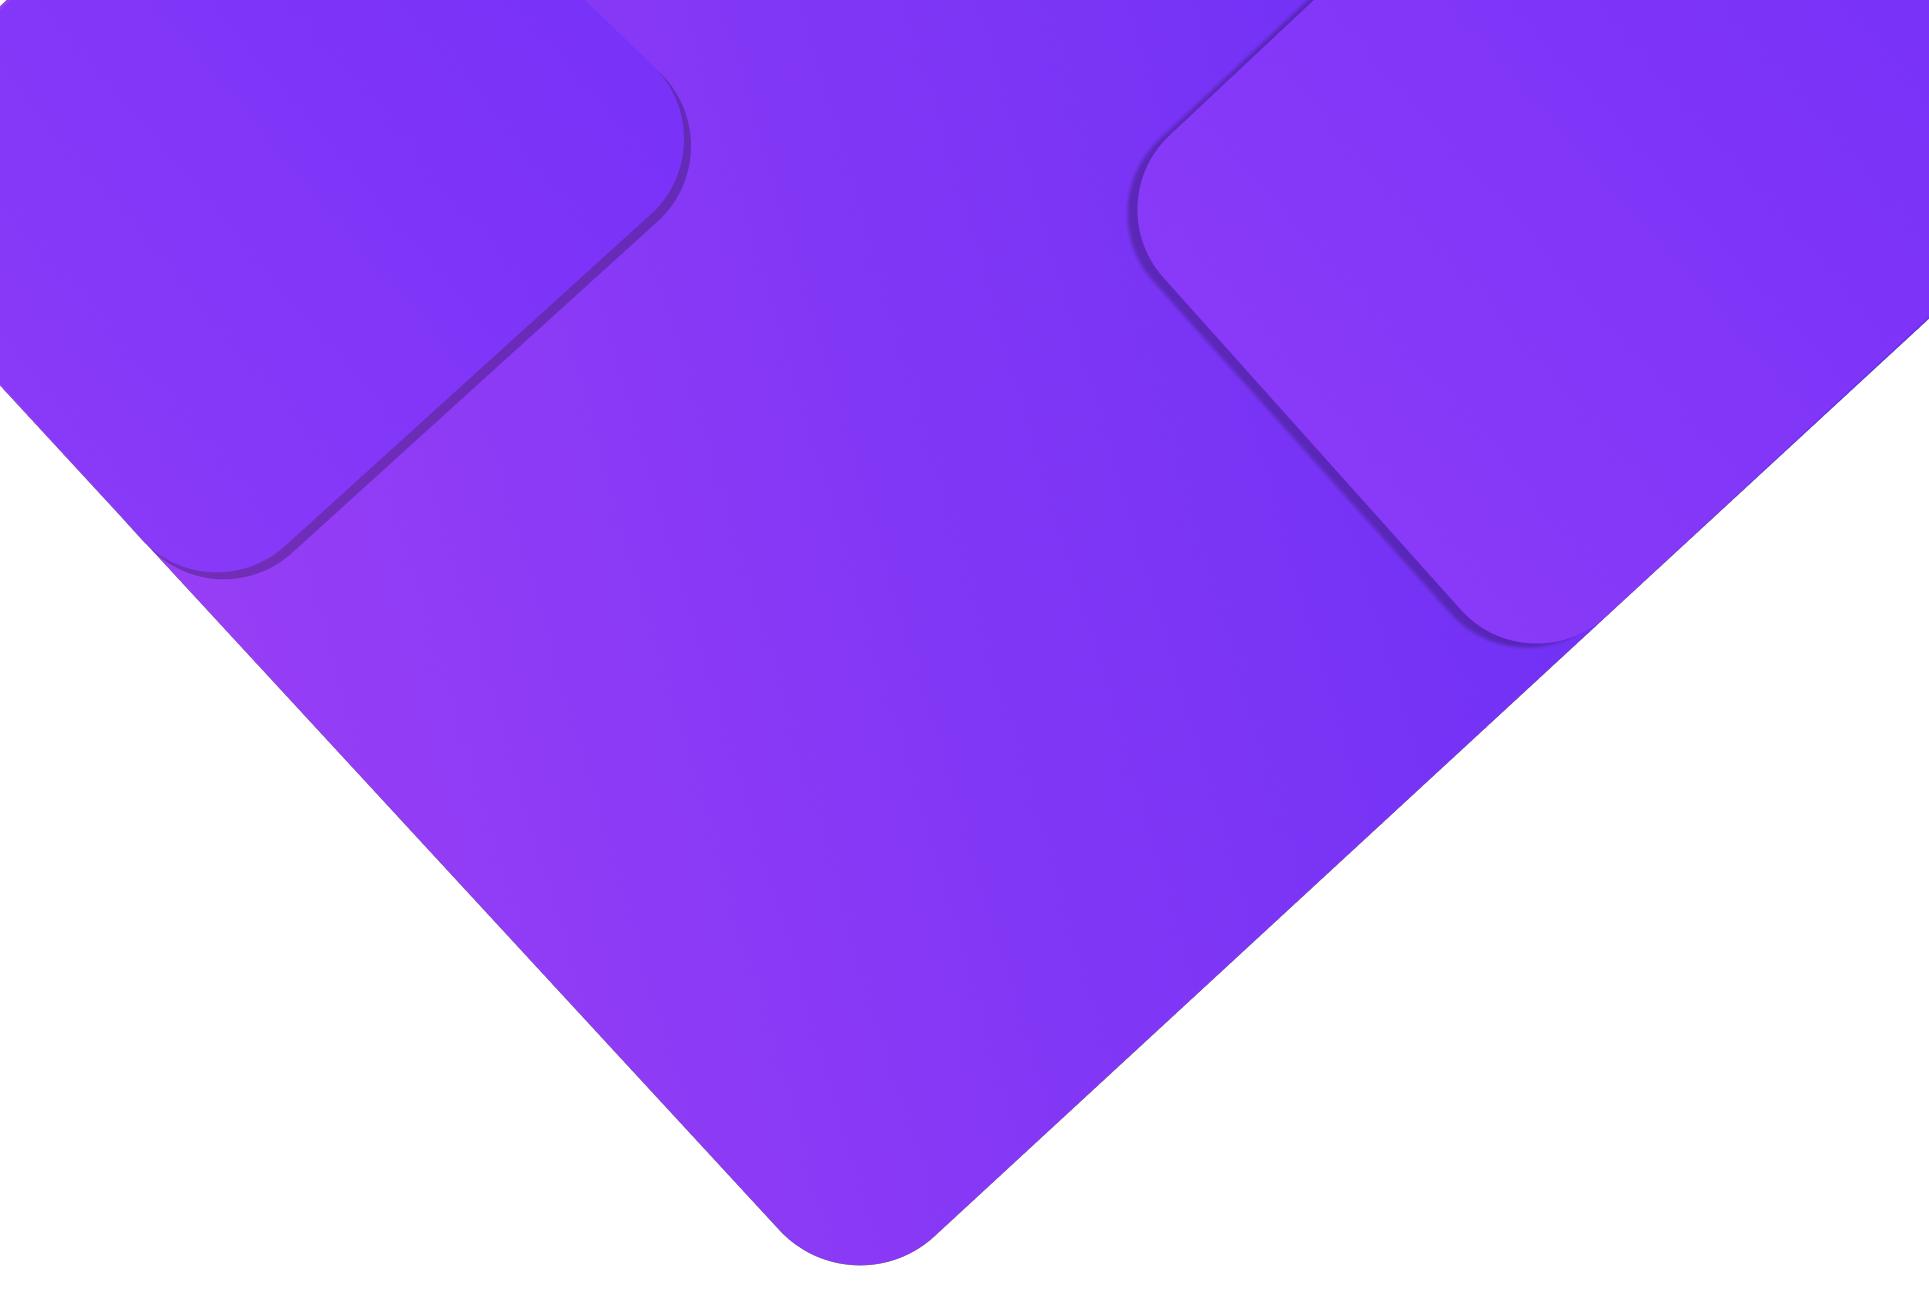
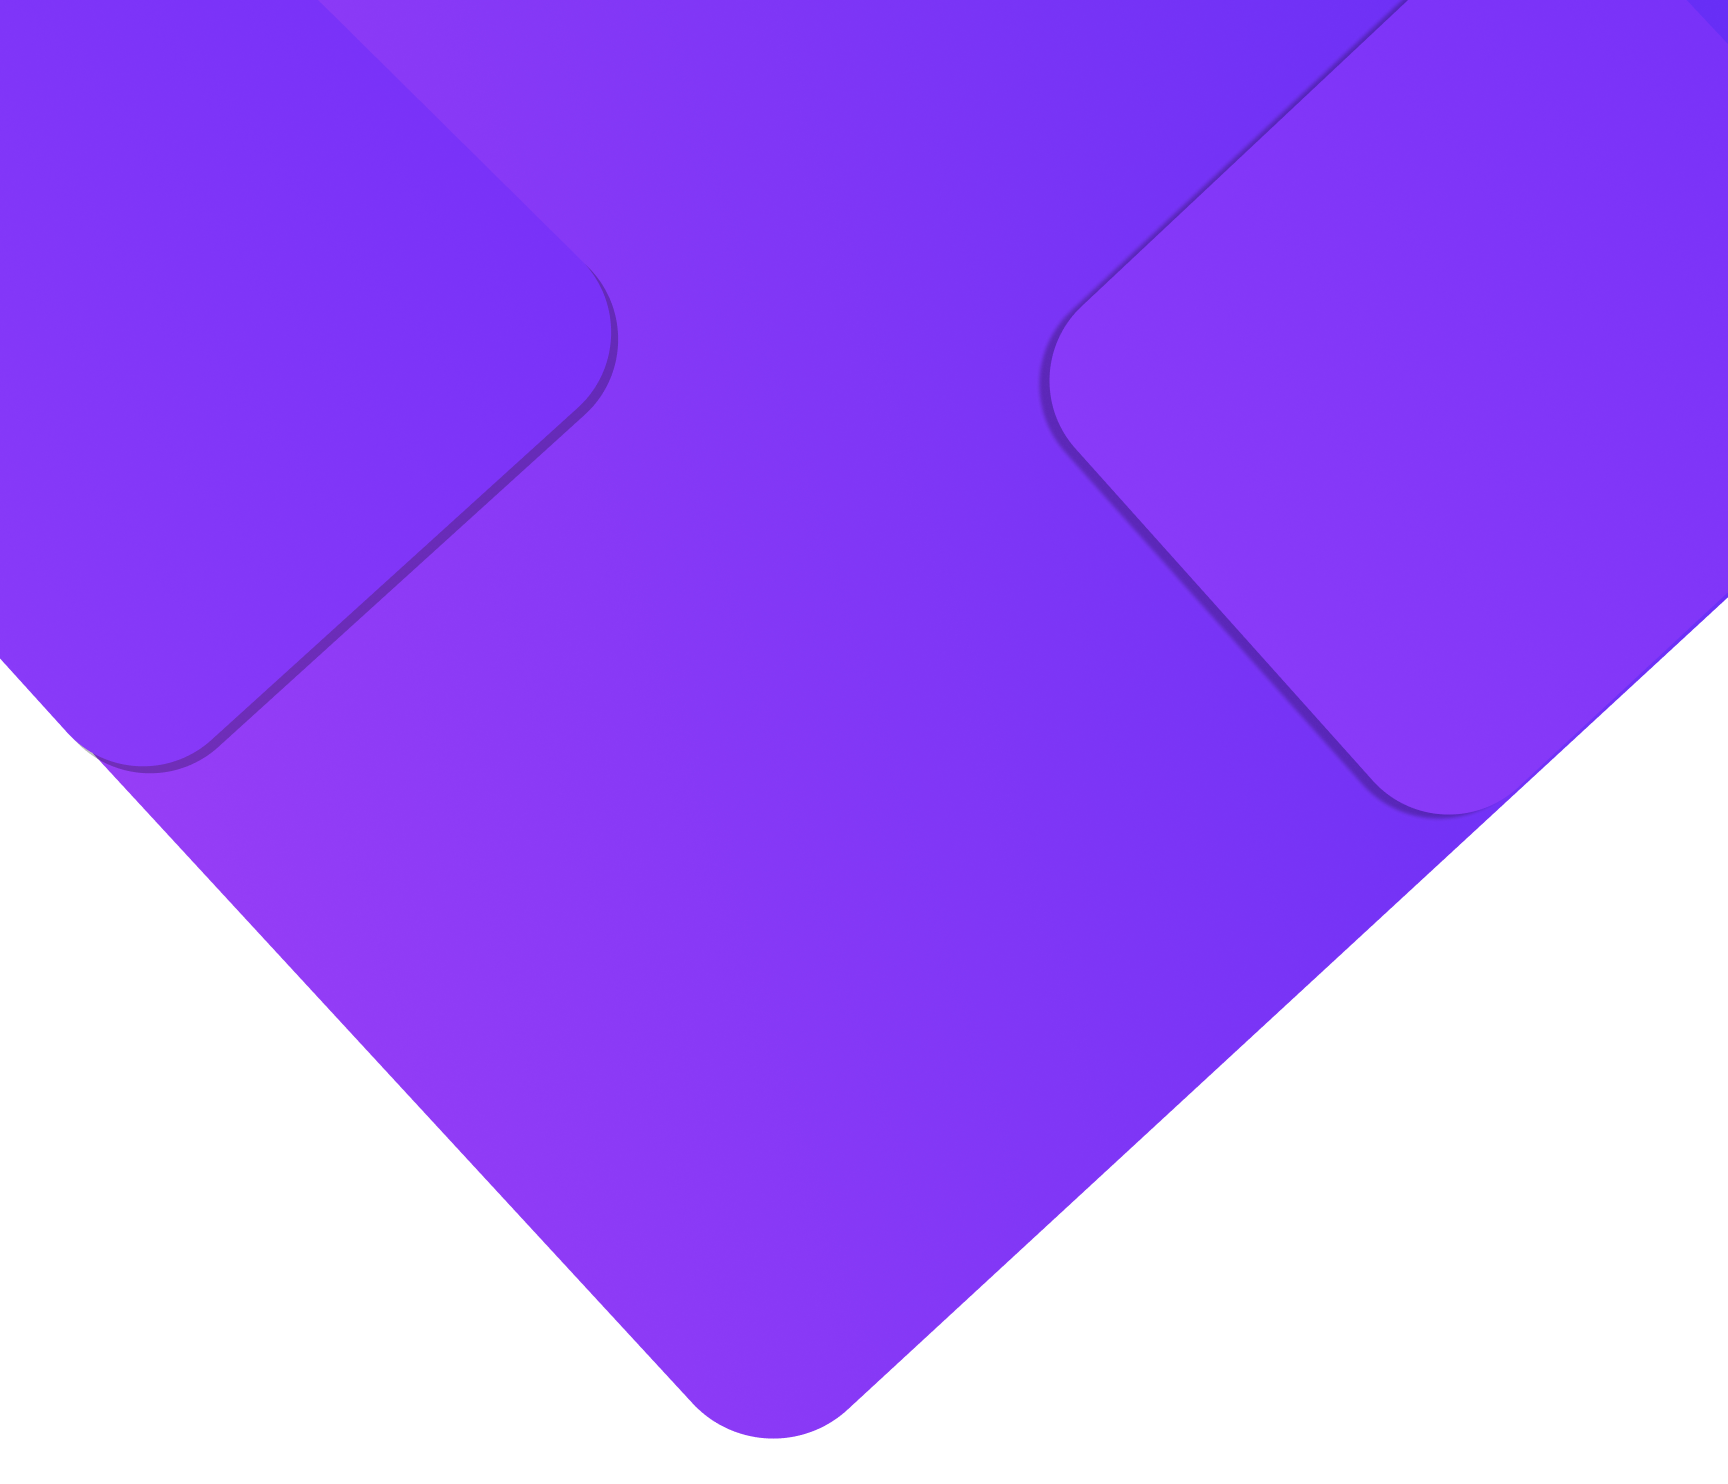
All files update

diff --git a/index.html b/index.html
@@ -22,7 +22,8 @@
     <section id="first-sec">
 
 
-        <img src="images/Component 1.png" alt="background" class="img-fluid fluid-absolute">
+        <img src="images/Component 1.png" alt="background" id="component_1_visible" class="img-fluid fluid-absolute">
+        <img src="images/Component 1 mobile.png" alt="background_mobile" id="component_1_hidden" class="img-fluid fluid-absolute">
     <!-- NAVBAR  -->
     <nav class="navbar navbar-expand-lg">
         <div class="container-fluid">
@@ -75,7 +76,7 @@
 
         <div class="col-lg-6">
           <h1 class="h1-bold">Get noticed online with a stunning website</h1>
-          <p>Ready to elevate your business and stand out in the digital world?<br> Let our team of expert web developers bring your website to the<br> next level.</p>
+          <p>Ready to elevate your business and stand out in the digital world? Let our team of expert web developers bring your website to the next level.</p>
           <button type="button" class="CTA-btn"  data-bs-toggle="modal" data-bs-target="#exampleModalToggle"><span>Hire us</span></button>
           <button type="button" class="CTA-btn" style="background-color: transparent; border: 2px solid #84CECF ;"  data-bs-toggle="modal" data-bs-target="#Contact-popup"><span>Contact us</span></button>
 
@@ -149,8 +150,8 @@
 
         <!-- background color for Call-to-action 1  --------------------------------->
         
-        <img id="Rectangle_background1" src="images/Rectangle_background1.png" alt="Rectangle_background1" draggable="false">
-        <img id="Rectangle_background2" src="images/Rectangle_background2.png" alt="Rectangle_background2" draggable="false">
+        <img class="rec-background" id="Rectangle_background1" src="images/Rectangle_background1.png" alt="Rectangle_background1" draggable="false">
+        <img class="rec-background" id="Rectangle_background2" src="images/Rectangle_background2.png" alt="Rectangle_background2" draggable="false">
 
         <div class="row" id="row-cta1">
 
@@ -178,8 +179,8 @@
 
         <!-- background color for Call-to-action 2  --------------------------------->
         
-        <img id="Rectangle_background1" src="images/Rectangle_background_3.png" alt="Rectangle_background1" draggable="false">
-        <img id="Rectangle_background2" src="images/Rectangle_background_4.png" alt="Rectangle_background2" draggable="false">
+        <img class="rec-background" id="Rectangle_background1" src="images/Rectangle_background_3.png" alt="Rectangle_background1" draggable="false">
+        <img class="rec-background" id="Rectangle_background2" src="images/Rectangle_background_4.png" alt="Rectangle_background2" draggable="false">
 
         <div class="row" id="row-cta1">
 
@@ -462,8 +463,8 @@
 
         <div id="row_footer" class="col-lg-12" style="display: table;">
           
-          <div class="col-lg-3" id="Melero-sm-hidden">
-            <h1 style="display: inline-block;">Melero</h1>
+          <div class="col-lg-3" >
+            <h1 class="Melero_footer" style="display: inline-block;">Melero</h1>
           </div>
 
           <div class="col-lg-3" >

diff --git a/css/styles.css b/css/styles.css
@@ -60,6 +60,15 @@ body{
     margin-left: auto;
     margin-right: auto;
     z-index: -1;  
+    width: 100%;
+}
+
+#component_1_hidden{
+    visibility: hidden;
+  }
+
+  #component_1_visible{
+    visibility: visible;
 }
 
 .navbar {
@@ -368,7 +377,7 @@ textarea{
     }
 }
 
-@media (max-width: 1400px) and (min-width : 550px) {
+@media (max-width: 1400px) and (min-width : 800px) {
     #CTA-lg-visible {
         visibility: hidden;
         position: absolute;
@@ -380,6 +389,10 @@ textarea{
         left: 0;
         margin-left: auto;
         margin-right: auto
+    }
+
+    #first-sec{
+        text-align: center;
     }
 
     #CTA-sm-hidden {
@@ -426,18 +439,7 @@ textarea{
         font-size: 1rem;
     }
 
-    #Melero-sm-hidden {
-        visibility: hidden;
-        position: absolute;
-        top: 0;
-        bottom: 0;
-        margin-top: auto;
-        margin-bottom: auto;
-        right: 0;
-        left: 0;
-        margin-left: auto;
-        margin-right: auto
-    }
+   
 
     .CTA-btn {
         border-radius: 100px;
@@ -455,10 +457,11 @@ textarea{
         text-transform: uppercase;
        background-color: #D7A9FD;
       }
+   
     
 }
 
-@media (max-width: 550px) and (min-width : 100px) {
+@media (max-width: 800px) and (min-width : 100px) {
     .CTA-btn {
         width: 150px;
         font-size: 0.83rem;
@@ -466,7 +469,7 @@ textarea{
 
     .h1-bold {
         font-weight: 700;
-        font-size: 2rem;
+        font-size: 5.5rem;
         line-height: 1.1;
         text-transform: capitalize;
         margin-bottom: 3%;
@@ -474,7 +477,7 @@ textarea{
     }
 
     .p-footer{
-        font-size: 0.8rem;
+        font-size: 1rem;
     }
 
     #CTA-lg-visible {
@@ -492,5 +495,29 @@ textarea{
 
     .nav-link{
         text-align: center;
+    }
+
+    #component_1_hidden{
+        visibility: visible;
+    }
+
+    #component_1_visible{
+        visibility: hidden;
+    }
+
+    #first-sec{
+        text-align: center;
+    }
+
+    .rec-background{
+        height: 75%;
+    }
+
+    #wave_background{
+        height: 50%;
+    }
+
+    .Melero_footer{
+        font-size: 1.3rem;
     }
 }
